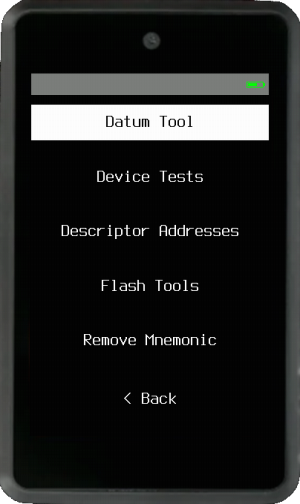
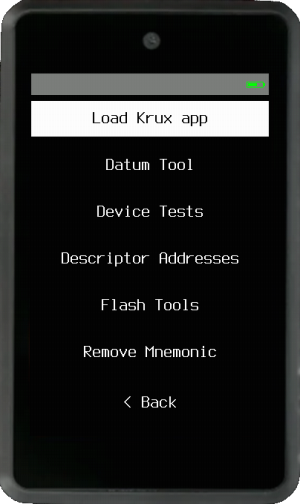
kapp docs

diff --git a/docs/getting-started/features/tools.en.md b/docs/getting-started/features/tools.en.md
@@ -3,6 +3,16 @@ Here are some useful tools that are available as soon as Krux starts! These are 
 <img src="../../../img/maixpy_amigo/tools-options-300.png" class="amigo">
 <img src="../../../img/maixpy_m5stickv/tools-options-250.png" class="m5stickv">
 
+### Load Krux app
+<img src="../../../img/maixpy_m5stickv/krux-apps-250.png" align="right" class="m5stickv">
+<img src="../../../img/maixpy_amigo/krux-apps-300.png" align="right" class="amigo">
+
+Run developer-signed Krux applications (Kapps) that are not suited to be part of the main firmware. Copy its `.mpy` file and corresponding signature to an SD card to load it onto the device. When executed, the Kapp is stored in the user's flash memory (just like custom settings) and this process modifies the last two words of the [Tamper Detection](tamper-detection.md#tamper-check-flash-hash-tc-flash-hash-a-tamper-detection-tool) (User's Region).
+
+For example, the **Nostr Kapp** allows converting a mnemonic into a Nostr `nsec` key and air-gapped event signing.
+
+<div style="clear: both"></div>
+
 ### Datum Tool
 <img src="../../../img/maixpy_m5stickv/tools-datum-tool-load-250.png" align="right" class="m5stickv">
 <img src="../../../img/maixpy_amigo/tools-datum-tool-load-300.png" align="right" class="amigo">
